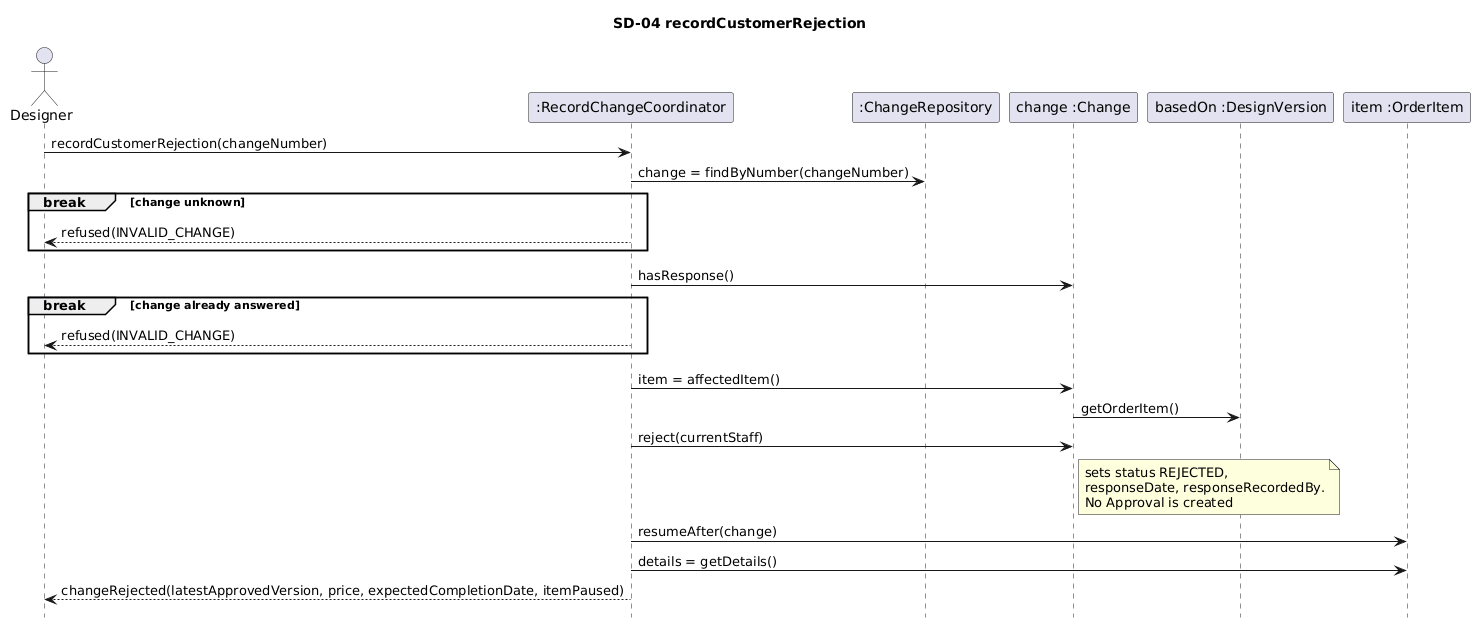
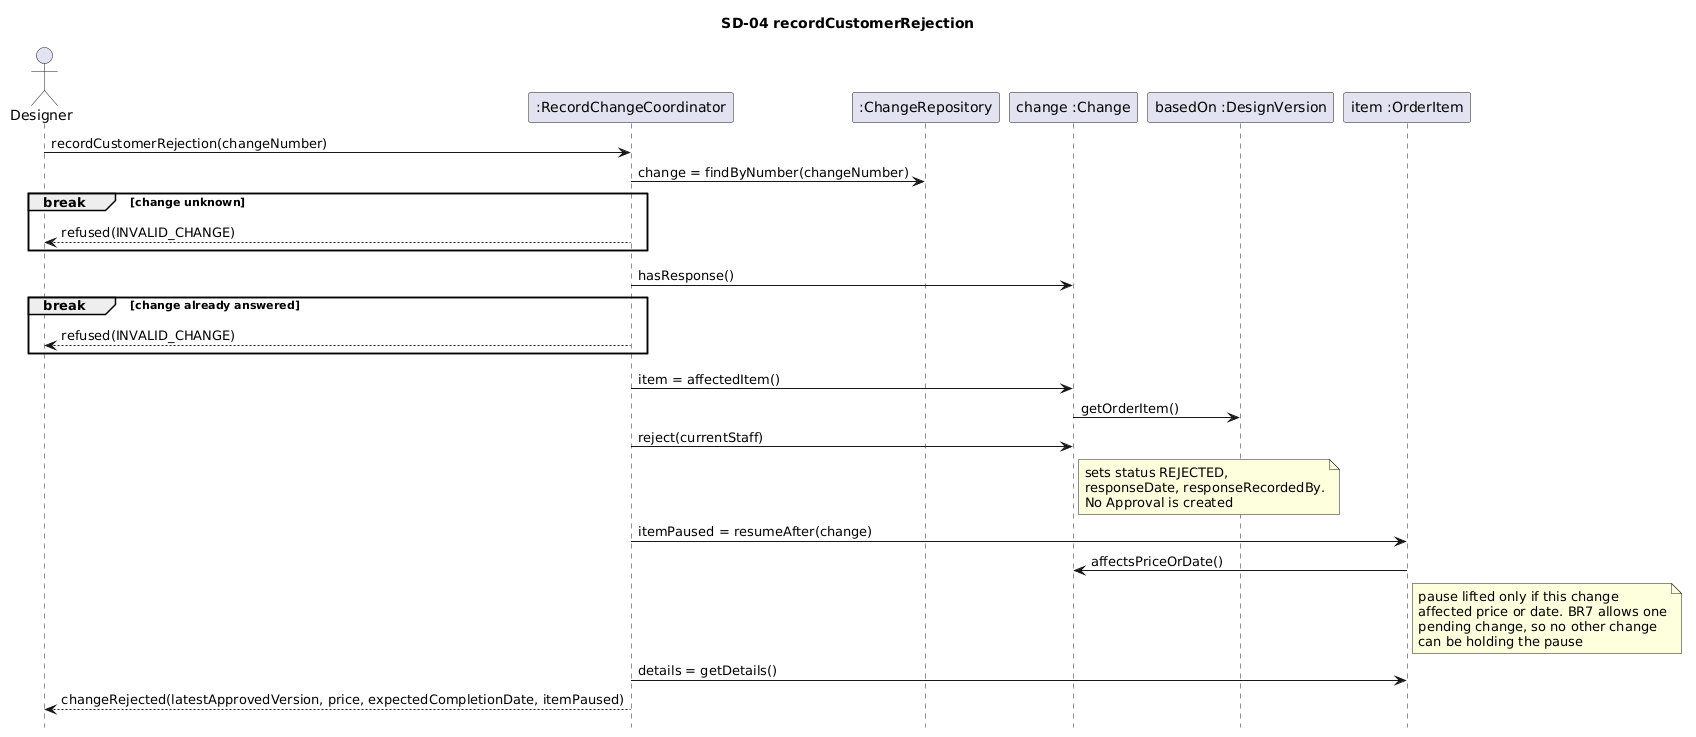
Update  DCD, SDs and Gherkin
pauseIfAffected and resumeAfter return the pause state, which gives itemPaused in the SD-02 to SD-04 replies. resumeAfter lifts the pause only if the change affected price or date.
Adds Refusal and RefusalCode to the DCD for refusal outcomes.

Add GH13 for findOrderItem and GH14 for a rejection of an answered change, and updates the SD references and design notes in 10.

Reexport the DCD, SD-02, SD-03 and SD-04 PNGs.

diff --git a/analysis/shared/10-Object_Interaction_Diagrams.md b/analysis/shared/10-Object_Interaction_Diagrams.md
@@ -12,7 +12,7 @@ Source: [sd-uc6-record-change.puml](../../sd-uc6-record-change.puml)
 
 | Contract | Gherkin |
 | --- | --- |
-| OC-01 | GH9, GH10 |
+| OC-01 | GH13 |
 
 - The coordinator finds the order through OrderRepository and the item through Order.
 - OrderItem finds its latest approved version by asking each DesignVersion if it is fully approved.
@@ -28,7 +28,7 @@ Source: [sd-uc6-record-change.puml](../../sd-uc6-record-change.puml)
 - All four refusals are checked before anything is created.
 - ChangeRepository gives the next changeNumber, as it knows every Change (OQ-01).
 - StaffMember creates the Change (CR-01) and the Change creates the new DesignVersion (CR-02).
-- OrderItem asks the Change if it affects the price or date, and only pauses if it does (OQ-06).
+- OrderItem asks the Change if it affects the price or date, and only pauses if it does (OQ-06). pauseIfAffected returns whether the item is paused, which goes into changeRecorded.
 
 ### SD-03: recordCustomerAgreement
 
@@ -40,7 +40,7 @@ Source: [sd-uc6-record-change.puml](../../sd-uc6-record-change.puml)
 
 - The Change records the response and who recorded it (OQ-05).
 - StaffMember creates the Approval (CR-03) and the scope is set to Full (OQ-02).
-- OrderItem updates its own price and completion date, then lifts the pause.
+- OrderItem updates its own price and completion date, then resumeAfter lifts the pause if this change caused it. resumeAfter returns whether the item is still paused, which goes into changeAgreed.
 
 ### SD-04: recordCustomerRejection
 
@@ -48,10 +48,11 @@ Source: [sd-uc6-record-change.puml](../../sd-uc6-record-change.puml)
 
 | Contract | Gherkin |
 | --- | --- |
-| OC-04 | GH4, GH12 |
+| OC-04 | GH4, GH14 |
 
 - The Change records the rejection and who recorded it (OQ-05).
 - No Approval is created and the price and date are not changed.
+- resumeAfter lifts the pause if this change caused it and returns whether the item is still paused, which goes into changeRejected.
 
 ### DCD methods added while drawing
 
@@ -63,6 +64,8 @@ Source: [sd-uc6-record-change.puml](../../sd-uc6-record-change.puml)
 | Change | proposedVersion() : DesignVersion | Approve the version the Change created |
 | ChangeRepository | nextChangeNumber() : int | Give each Change a unique changeNumber (OQ-01) |
 | StaffMember | createChange gains a changeNumber parameter | Pass the number to the new Change |
+| OrderItem | pauseIfAffected and resumeAfter return boolean | Give itemPaused for changeRecorded, changeAgreed and changeRejected |
+| Refusal, RefusalCode | New class and enum | Return refusal outcomes instead of a result type |
 
 getOrder, getCustomer and nextChangeNumber are not yet in CRC-06.
 
@@ -75,6 +78,8 @@ getOrder, getCustomer and nextChangeNumber are not yet in CRC-06.
 - [x] Refusals happen before any object is created or changed
 - [x] Creators follow DR-06 (CR-01 to CR-03)
 
-### Open questions
+### Design notes
 
-- How resumeAfter knows whether this Change caused the pause and whether other blocking conditions remain. isPaused alone does not record the reason (see the open design note in 07).
+- **Pause and resume.** isPaused is only set by pauseIfAffected, and only when the Change affects price or date (OQ-06). BR7 allows one pending change per item, so when a response is recorded, that Change is the only one that can be holding the pause. resumeAfter asks the Change affectsPriceOrDate() and lifts the pause if it did. Pauses from outside UC6 are out of scope.
+- **itemPaused in responses.** ItemDetails matches itemDetails(...) in SSD-01 and does not hold the pause. pauseIfAffected and resumeAfter return the pause state, and the coordinator puts it in ChangeResult and ResponseResult.
+- **Refusals.** When a check fails, the coordinator returns a Refusal with its RefusalCode instead of the result type. The refusal happens before any object is created or changed, so nothing is recorded.
